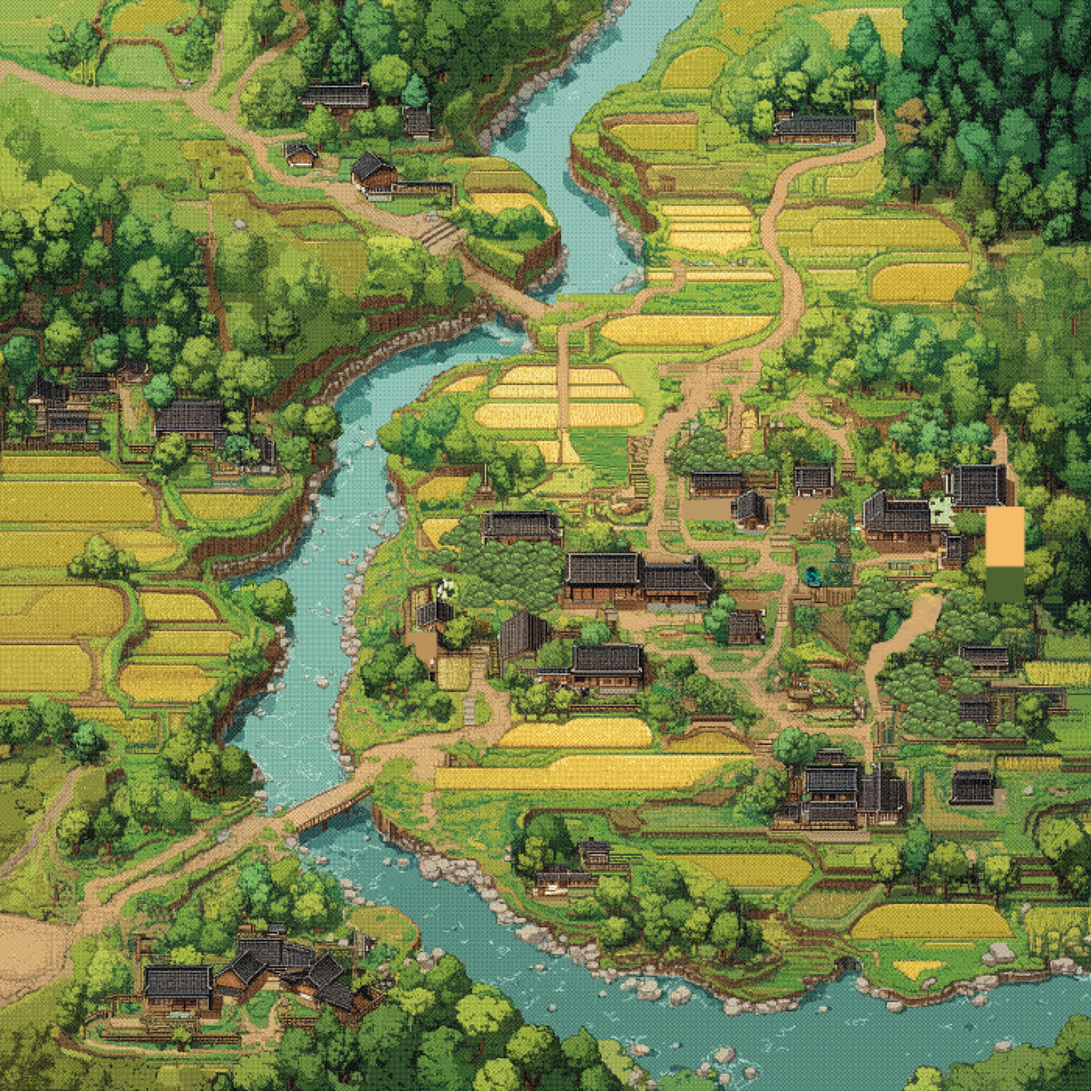
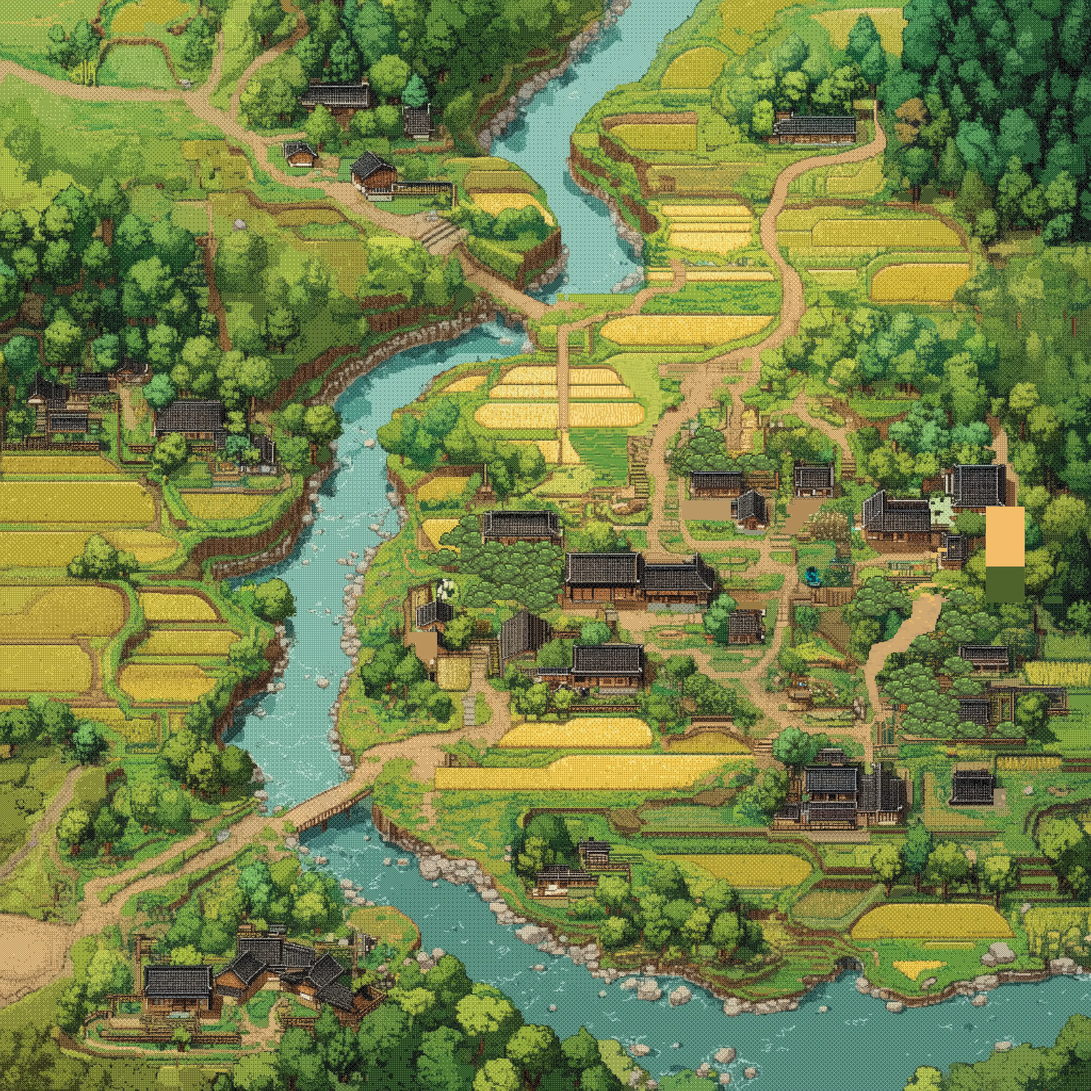
set: load land image

Changed region(s): [[0.0, 0.0, 1.0, 1.0]]

diff --git a/src/hooks/useGameState.tsx b/src/hooks/useGameState.tsx
@@ -13,7 +13,8 @@ import {
     MAX_WORLD_X,
     MIN_WORLD_Y,
     MAX_WORLD_Y,
-    DIRECTION
+    DIRECTION,
+    INITIAL_PLAYER_POSITION
 } from '@/constants/game';
 
 interface Position {
@@ -27,29 +28,23 @@ export function useGameState() {
     const { isBlocked: isLayer1Blocked, collisionMap } = useBuildStore();
     const { agents: a2aAgents } = useAgentStore();
     const {
-      worldPosition,
-      setWorldPosition,
-      isLoading,
-      setIsLoading,
-      isAutonomous,
-      setIsAutonomous,
-      playerDirection,
-      setPlayerDirection,
-      recentMovements,
-      setRecentMovements,
-      lastCommentary,
-      setLastCommentary,
-      lastMoveTime,
-      setLastMoveTime,
-      isPlayerMoving,
-      setIsPlayerMoving,
+        worldPosition,
+        setWorldPosition,
+        isLoading,
+        setIsLoading,
+        isAutonomous,
+        setIsAutonomous,
+        playerDirection,
+        setPlayerDirection,
+        recentMovements,
+        setRecentMovements,
+        lastCommentary,
+        setLastCommentary,
+        lastMoveTime,
+        setLastMoveTime,
+        isPlayerMoving,
+        setIsPlayerMoving
     } = useGameStateStore();
-
-    // Character starts at position (63, 58)
-    const initialPosition: Position = {
-        x: 63,
-        y: 58
-    };
 
     // Get the current map data centered on the player's world position with full square view
     const mapData = getMapData(worldPosition.x, worldPosition.y, MAP_WIDTH, MAP_HEIGHT);
@@ -112,10 +107,10 @@ export function useGameState() {
             }
 
             if (
-              newWorldPosition.x < MIN_WORLD_X ||
-              newWorldPosition.x > MAX_WORLD_X ||
-              newWorldPosition.y < MIN_WORLD_Y ||
-              newWorldPosition.y > MAX_WORLD_Y
+                newWorldPosition.x < MIN_WORLD_X ||
+                newWorldPosition.x > MAX_WORLD_X ||
+                newWorldPosition.y < MIN_WORLD_Y ||
+                newWorldPosition.y > MAX_WORLD_Y
             ) {
                 return;
             }
@@ -140,7 +135,9 @@ export function useGameState() {
                 const blockingAgent = worldAgents.find(
                     (agent) => agent.x === newWorldPosition.x && agent.y === newWorldPosition.y
                 );
-                console.log(`🎮❌ Movement blocked: World agent "${blockingAgent?.name}" is at (${newWorldPosition.x}, ${newWorldPosition.y})`);
+                console.log(
+                    `🎮❌ Movement blocked: World agent "${blockingAgent?.name}" is at (${newWorldPosition.x}, ${newWorldPosition.y})`
+                );
                 return;
             }
 
@@ -152,7 +149,9 @@ export function useGameState() {
                 const blockingAgent = Object.values(a2aAgents).find(
                     (agent) => agent.x === newWorldPosition.x && agent.y === newWorldPosition.y
                 );
-                console.log(`🤖❌ Movement blocked: A2A agent "${blockingAgent?.name}" is at (${newWorldPosition.x}, ${newWorldPosition.y})`);
+                console.log(
+                    `🤖❌ Movement blocked: A2A agent "${blockingAgent?.name}" is at (${newWorldPosition.x}, ${newWorldPosition.y})`
+                );
                 return;
             }
 
@@ -177,8 +176,8 @@ export function useGameState() {
 
     // Reset player location to initial position
     const resetLocation = useCallback(() => {
-        setWorldPosition(initialPosition);
-        savePositionToRedis(initialPosition);
+        setWorldPosition(INITIAL_PLAYER_POSITION);
+        savePositionToRedis(INITIAL_PLAYER_POSITION);
         setPlayerDirection(DIRECTION.RIGHT);
         setRecentMovements([]);
         setIsPlayerMoving(false);
@@ -273,10 +272,18 @@ export function useGameState() {
             nextPosition.y < MIN_WORLD_Y ||
             nextPosition.y > MAX_WORLD_Y;
         const tileType = generateTileAt(nextPosition.x, nextPosition.y);
-        const isOccupiedByWorldAgent = worldAgents.some((agent) => agent.x === nextPosition.x && agent.y === nextPosition.y);
-        const isOccupiedByA2AAgent = Object.values(a2aAgents).some((agent) => agent.x === nextPosition.x && agent.y === nextPosition.y);
+        const isOccupiedByWorldAgent = worldAgents.some(
+            (agent) => agent.x === nextPosition.x && agent.y === nextPosition.y
+        );
+        const isOccupiedByA2AAgent = Object.values(a2aAgents).some(
+            (agent) => agent.x === nextPosition.x && agent.y === nextPosition.y
+        );
         const isBlocked =
-            isOutOfBounds || tileType === 3 || isLayer1Blocked(nextPosition.x, nextPosition.y) || isOccupiedByWorldAgent || isOccupiedByA2AAgent;
+            isOutOfBounds ||
+            tileType === 3 ||
+            isLayer1Blocked(nextPosition.x, nextPosition.y) ||
+            isOccupiedByWorldAgent ||
+            isOccupiedByA2AAgent;
 
         if (isBlocked) {
             // Try different directions
@@ -327,15 +334,24 @@ export function useGameState() {
             // Move in current direction
             movePlayer(playerDirection as DIRECTION);
         }
-    }, [isAutonomous, worldPosition, playerDirection, generateTileAt, movePlayer, isLayer1Blocked, worldAgents, a2aAgents]);
+    }, [
+        isAutonomous,
+        worldPosition,
+        playerDirection,
+        generateTileAt,
+        movePlayer,
+        isLayer1Blocked,
+        worldAgents,
+        a2aAgents
+    ]);
 
     // Initialize to default position on mount/refresh
     useEffect(() => {
         // Always start at initial position on refresh
-        setWorldPosition(initialPosition);
+        setWorldPosition(INITIAL_PLAYER_POSITION);
         setIsLoading(false);
 
-        console.log('🔄 Player position initialized to:', initialPosition);
+        console.log('🔄 Player position initialized to:', INITIAL_PLAYER_POSITION);
     }, []); // Empty dependency array - only run once on mount
 
     // Autonomous movement interval

diff --git a/src/components/TileMap.tsx b/src/components/TileMap.tsx
@@ -4,6 +4,7 @@ import { useEffect, useRef, useState } from 'react';
 import { SpriteAnimator } from 'react-sprite-animator';
 import { TILE_SIZE, MAP_TILES, DIRECTION } from '@/constants/game';
 import { useBuildStore, useChatStore } from '@/stores';
+import { useProgressiveImage } from '@/hooks/useProgressiveImage';
 
 interface Agent {
     id: string;
@@ -85,8 +86,26 @@ function TileMap({
     const canvasRef = useRef<HTMLCanvasElement>(null);
     const containerRef = useRef<HTMLDivElement>(null);
     const [loadedImages, setLoadedImages] = useState<{ [key: string]: HTMLImageElement }>({});
-    const [backgroundImage, setBackgroundImage] = useState<HTMLImageElement | null>(null);
-    const [layer1Image, setLayer1Image] = useState<HTMLImageElement | null>(null);
+
+    // Progressive loading for background and layer1 images
+    const {
+        image: backgroundImage,
+        isPreviewLoaded: bgPreviewLoaded,
+        isHighQualityLoaded: bgHQLoaded
+    } = useProgressiveImage(
+        backgroundImageSrc ? backgroundImageSrc.replace('.webp', '_preview.webp') : undefined,
+        backgroundImageSrc
+    );
+
+    const {
+        image: layer1Image,
+        isPreviewLoaded: layer1PreviewLoaded,
+        isHighQualityLoaded: layer1HQLoaded
+    } = useProgressiveImage(
+        layer1ImageSrc ? layer1ImageSrc.replace('.webp', '_preview.webp') : undefined,
+        layer1ImageSrc
+    );
+
     const [isPainting, setIsPainting] = useState(false);
     const [lastPaintedTile, setLastPaintedTile] = useState<{ x: number; y: number } | null>(null);
     const [canvasSize, setCanvasSize] = useState({ width: 800, height: 600 });
@@ -103,32 +122,6 @@ function TileMap({
 
     const { showCollisionMap, toggleCollisionMap } = useBuildStore();
     const { isAgentLoading } = useChatStore();
-
-    useEffect(() => {
-        if (!backgroundImageSrc) {
-            setBackgroundImage(null);
-            return;
-        }
-
-        const img = new Image();
-        img.onload = () => {
-            setBackgroundImage(img);
-        };
-        img.src = backgroundImageSrc;
-    }, [backgroundImageSrc]);
-
-    useEffect(() => {
-        if (!layer1ImageSrc) {
-            setLayer1Image(null);
-            return;
-        }
-
-        const img = new Image();
-        img.onload = () => {
-            setLayer1Image(img);
-        };
-        img.src = layer1ImageSrc;
-    }, [layer1ImageSrc]);
 
     useEffect(() => {
         const updateCanvasSize = () => {

diff --git a/src/app/layout.tsx b/src/app/layout.tsx
@@ -120,8 +120,8 @@ export default function RootLayout({
     return (
         <html lang="en" suppressHydrationWarning>
             <head>
-                <link rel="preload" href="/map/land_layer_0.jpg" as="image" />
-                <link rel="preload" href="/map/land_layer_1.jpg" as="image" />
+                <link rel="preload" href="/map/land_layer_0_preview.webp" as="image" />
+                <link rel="preload" href="/map/land_layer_1_preview.webp" as="image" />
             </head>
             <body className={`${geistSans.variable} ${geistMono.variable} antialiased`} suppressHydrationWarning>
                 <Providers>

diff --git a/src/constants/game.ts b/src/constants/game.ts
@@ -19,7 +19,7 @@ export const MIN_WORLD_Y = Math.floor(MAP_HEIGHT / 2);
 export const MAX_WORLD_Y = MAP_TILES - Math.ceil(MAP_HEIGHT / 2);
 
 // Player initial position
-export const INITIAL_PLAYER_POSITION = { x: 72, y: 64 };
+export const INITIAL_PLAYER_POSITION = { x: 59, y: 70 };
 
 // Agent settings
 export const ENABLE_AGENT_MOVEMENT = false; // Set to false to disable agent movement
